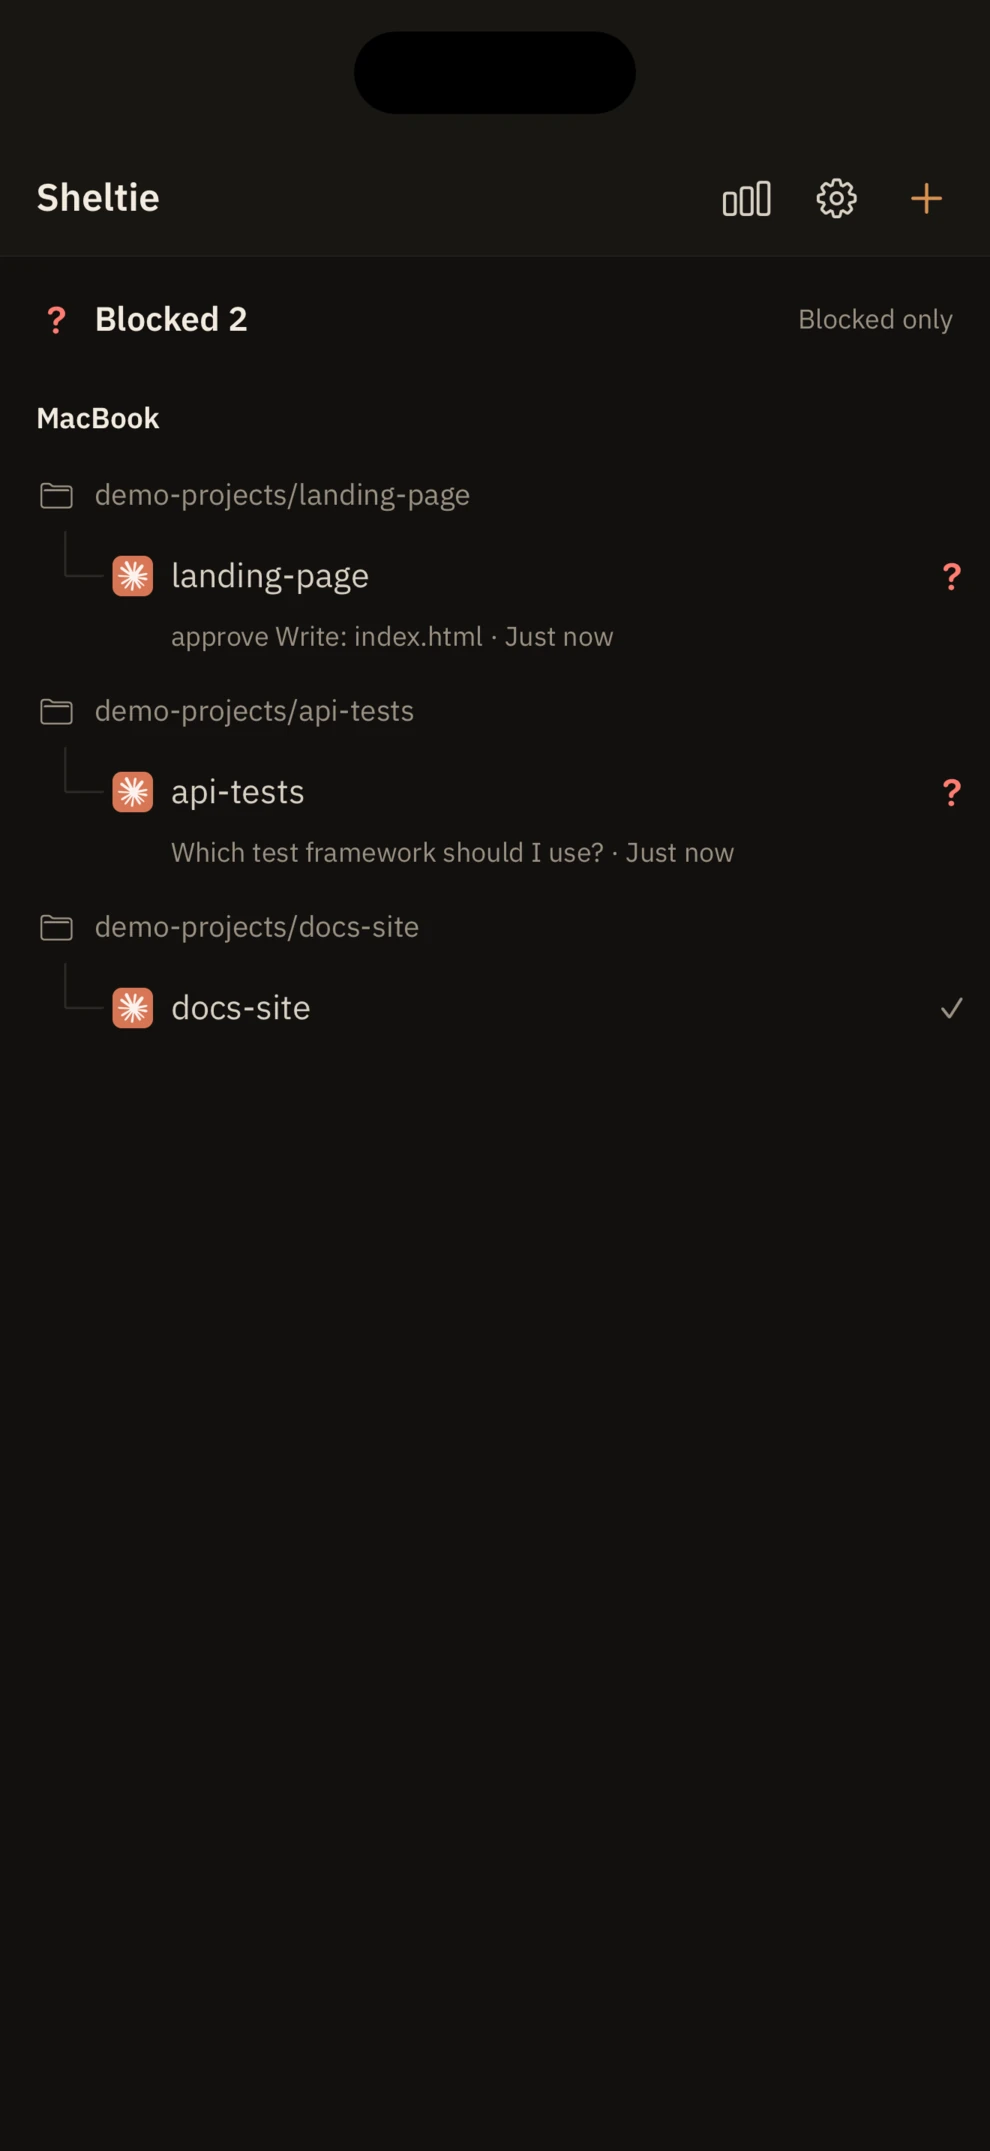
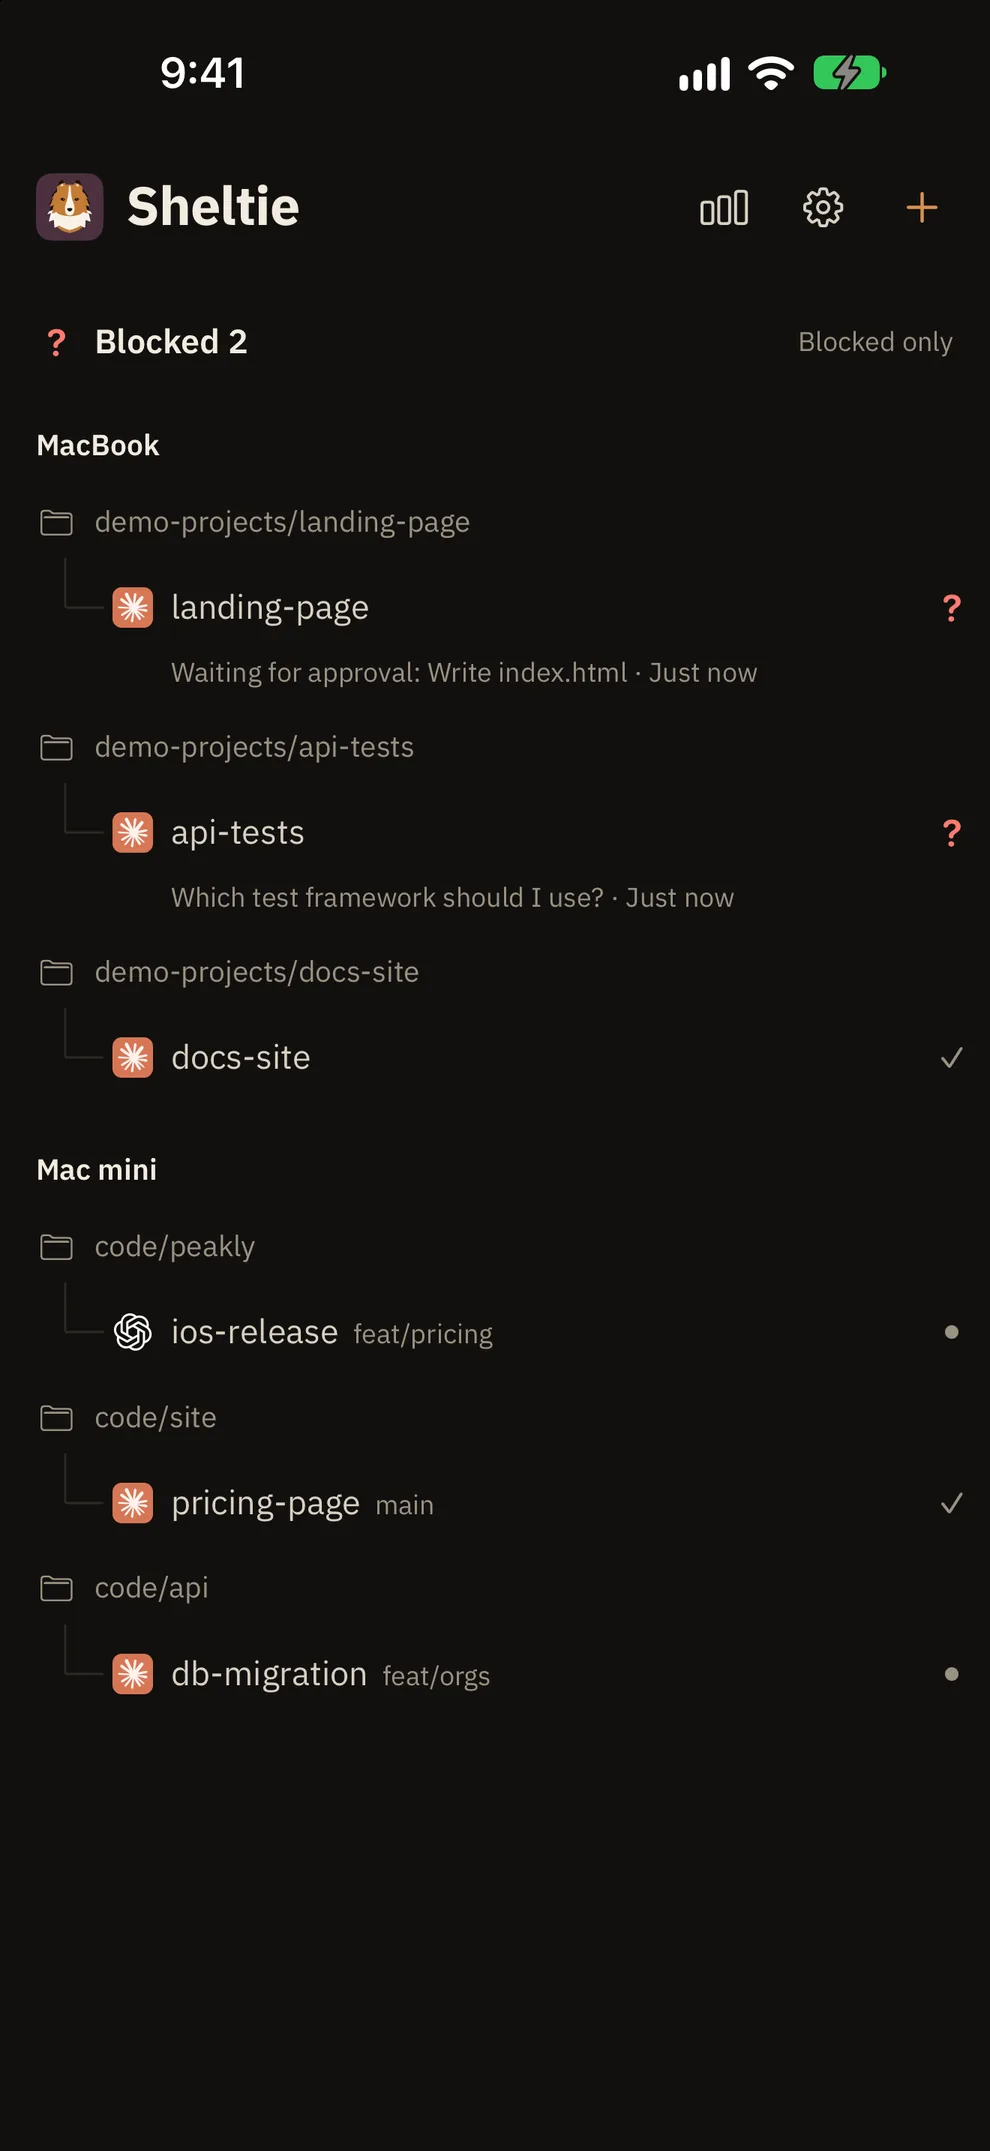
Sheltie 페이지: 새 스크린샷 9장(알림·Live Activity·승인·목록·질문·터미널·파일·첨부·사용량)

diff --git a/src/i18n.ts b/src/i18n.ts
@@ -272,10 +272,15 @@ export const ui = {
         tagline: '코딩 에이전트 승인 앱',
         lead: 'PC에서 돌리는 코딩 에이전트가 권한이나 질문에서 멈추면 iPhone으로 알림이 옵니다(Android는 비공개 테스트 중). 잠금화면에서 바로 허용하거나 거부하고, 앱에서 대화를 읽고 새 작업을 시작합니다. 무료이고 PC 쪽 서버는 오픈소스입니다.',
         rows: [
-            { shot: 'lock', label: '잠금화면', title: '앱을 열지 않고 답합니다', body: '알림을 길게 누르면 허용, 이 세션 동안 허용, 거부가 나옵니다. 답하기 직전에 터미널 메뉴가 그대로인지 다시 확인합니다.', alt: '잠금화면 알림의 허용·거부 메뉴' },
-            { shot: 'list', label: '목록', title: '막힌 에이전트가 맨 위에', body: 'PC별, 폴더별로 모든 세션을 한 목록에서 봅니다. 무엇을 기다리는지, 몇 분째인지 같이 보입니다.', alt: '에이전트 세션 목록' },
+            { shot: 'notif', label: '알림', title: '앱을 열지 않고 답합니다', body: '알림을 길게 누르면 허용, 이 세션 동안 허용, 거부가 나옵니다. 답하기 직전에 터미널 메뉴가 그대로인지 다시 확인합니다.', alt: '알림을 길게 눌러 나온 허용·거부 메뉴' },
+            { shot: 'lock', label: '잠금화면', title: '막힌 수가 잠금화면에 떠 있습니다', body: 'Live Activity가 지금 몇 개가 막혀 있고 무엇을 기다리는지 보여 줍니다. 다이나믹 아일랜드에도 뜹니다.', alt: '잠금화면의 Live Activity와 알림' },
+            { shot: 'approve', label: '승인', title: '무엇을 허용하는지 보고 누릅니다', body: '만들 파일 내용이나 실행할 명령을 카드로 보여 주고, 터미널에 뜬 선택지를 그대로 버튼으로 줍니다.', alt: '파일 생성 승인 카드' },
+            { shot: 'list', label: '목록', title: '여러 PC를 한 목록에서', body: 'PC별, 폴더별로 모든 세션을 한 목록에서 봅니다. 막힌 에이전트가 맨 위에 오고, 무엇을 기다리는지와 몇 분째인지 같이 보입니다.', alt: 'MacBook과 Mac mini의 에이전트 세션 목록' },
             { shot: 'question', label: '질문', title: '선택지를 고르거나 직접 적습니다', body: '에이전트가 묻는 질문, 계획 승인, 여러 질문을 한 번에 묻는 화면도 카드로 답합니다.', alt: '질문 선택지 카드' },
-            { shot: 'chat', label: '대화', title: '폰에서 이어서 일합니다', body: '지금까지의 대화를 읽고 메시지를 보냅니다. 폴더를 골라 새 에이전트를 시작할 수도 있습니다.', alt: '에이전트와의 대화 화면' },
+            { shot: 'term', label: '터미널', title: 'PC 터미널을 실시간으로', body: '터미널 화면을 그대로 보고 숫자, 화살표, 엔터 키를 보냅니다. 카드로 못 받는 메뉴도 여기서 답합니다.', alt: '실시간 터미널 화면과 키 버튼' },
+            { shot: 'files', label: '파일', title: 'PC 폴더를 폰에서 엽니다', body: '에이전트가 일하는 폴더의 파일과 하위 폴더를 크기, 수정 시각과 함께 봅니다.', alt: 'PC 폴더의 파일 목록' },
+            { shot: 'chat', label: '대화', title: '폰에서 이어서 일합니다', body: '지금까지의 대화를 읽고 메시지를 보냅니다. 파일이나 사진을 붙여 보내고, 폴더를 골라 새 에이전트를 시작할 수도 있습니다.', alt: '대화 화면의 파일·사진 첨부 메뉴' },
+            { shot: 'usage', label: '사용량', title: '한도와 비용을 PC별로', body: 'Claude Code의 5시간·주간 한도와 초기화까지 남은 시간, 날짜별·모델별 비용을 봅니다.', alt: '사용 한도와 일별 비용 그래프' },
         ],
         agentsLabel: '지원 에이전트',
         agents: 'Claude Code · Codex · Gemini CLI · Qwen Code · OpenCode · Grok · GitHub Copilot CLI · Cursor Agent · Amp',
@@ -393,10 +398,15 @@ export const ui = {
         tagline: 'Approve coding agents from your iPhone',
         lead: 'When a coding agent on your computer stops for a permission or a question, your iPhone gets a notification (Android is in closed testing). Allow or deny right from the Lock Screen, read the conversation, and start new tasks from the app. Free, with an open-source server.',
         rows: [
-            { shot: 'lock', label: 'Lock Screen', title: 'Answer without opening the app', body: 'Long-press the notification for Allow, Allow for this session, or Deny. Right before answering, Sheltie checks the terminal menu hasn\'t changed.', alt: 'Allow and deny menu on a Lock Screen notification' },
-            { shot: 'list', label: 'List', title: 'Stuck agents on top', body: 'Every session from every computer and folder in one list, with what it\'s waiting for and for how long.', alt: 'List of agent sessions' },
+            { shot: 'notif', label: 'Notifications', title: 'Answer without opening the app', body: 'Long-press the notification for Allow, Allow for this session, or Deny. Right before answering, Sheltie checks the terminal menu hasn\'t changed.', alt: 'Allow and deny menu on a long-pressed notification' },
+            { shot: 'lock', label: 'Lock Screen', title: 'Stuck agents on your Lock Screen', body: 'A Live Activity shows how many agents are stuck and what they\'re waiting for. It also sits in the Dynamic Island.', alt: 'Live Activity and notification on the Lock Screen' },
+            { shot: 'approve', label: 'Approvals', title: 'See what you\'re allowing', body: 'The card shows the file it will write or the command it will run, with the same choices the terminal offers as buttons.', alt: 'Approval card for creating a file' },
+            { shot: 'list', label: 'List', title: 'All your computers in one list', body: 'Every session from every computer and folder in one list. Stuck agents come first, with what they\'re waiting for and for how long.', alt: 'Agent sessions on a MacBook and a Mac mini' },
             { shot: 'question', label: 'Questions', title: 'Pick an option or type your own', body: 'Answer agent questions, plan approvals, and multi-question forms as cards.', alt: 'Question card with options' },
-            { shot: 'chat', label: 'Conversation', title: 'Keep working from your phone', body: 'Read the conversation so far and send messages. Pick a folder to start a new agent.', alt: 'Conversation with an agent' },
+            { shot: 'term', label: 'Terminal', title: 'Your terminal, live', body: 'Watch the terminal as it runs and send number, arrow, and Enter keys. Menus that don\'t fit a card can be answered here.', alt: 'Live terminal with key buttons' },
+            { shot: 'files', label: 'Files', title: 'Browse your computer\'s folders', body: 'See the files and subfolders where your agent works, with sizes and modified times.', alt: 'File list of a folder on the computer' },
+            { shot: 'chat', label: 'Conversation', title: 'Keep working from your phone', body: 'Read the conversation so far and send messages. Attach files or photos, or pick a folder to start a new agent.', alt: 'Attach menu for files and photos in a conversation' },
+            { shot: 'usage', label: 'Usage', title: 'Limits and cost per computer', body: 'Claude Code\'s 5-hour and weekly limits with time until reset, plus cost by day and by model.', alt: 'Usage limits and daily cost chart' },
         ],
         agentsLabel: 'Supported agents',
         agents: 'Claude Code · Codex · Gemini CLI · Qwen Code · OpenCode · Grok · GitHub Copilot CLI · Cursor Agent · Amp',
